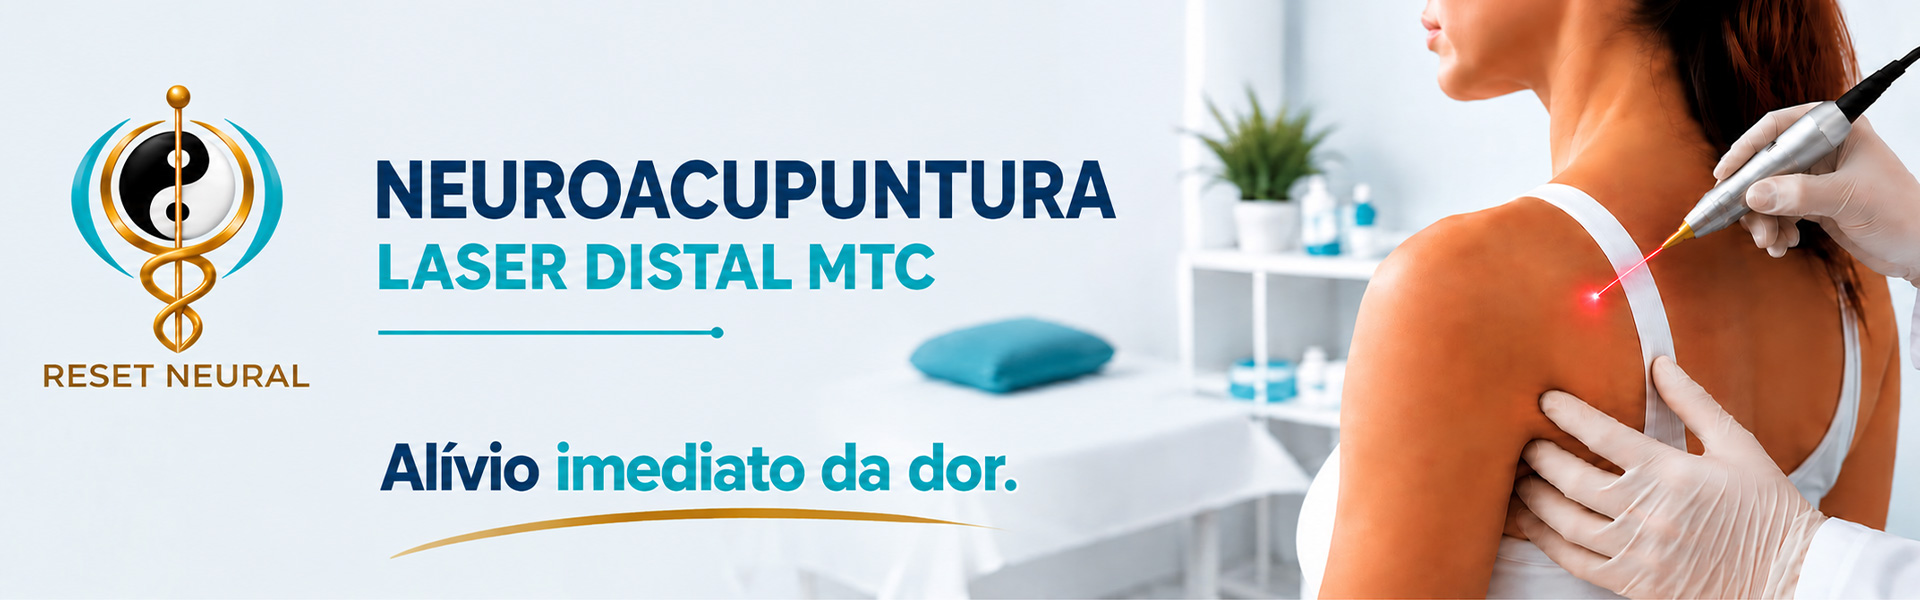
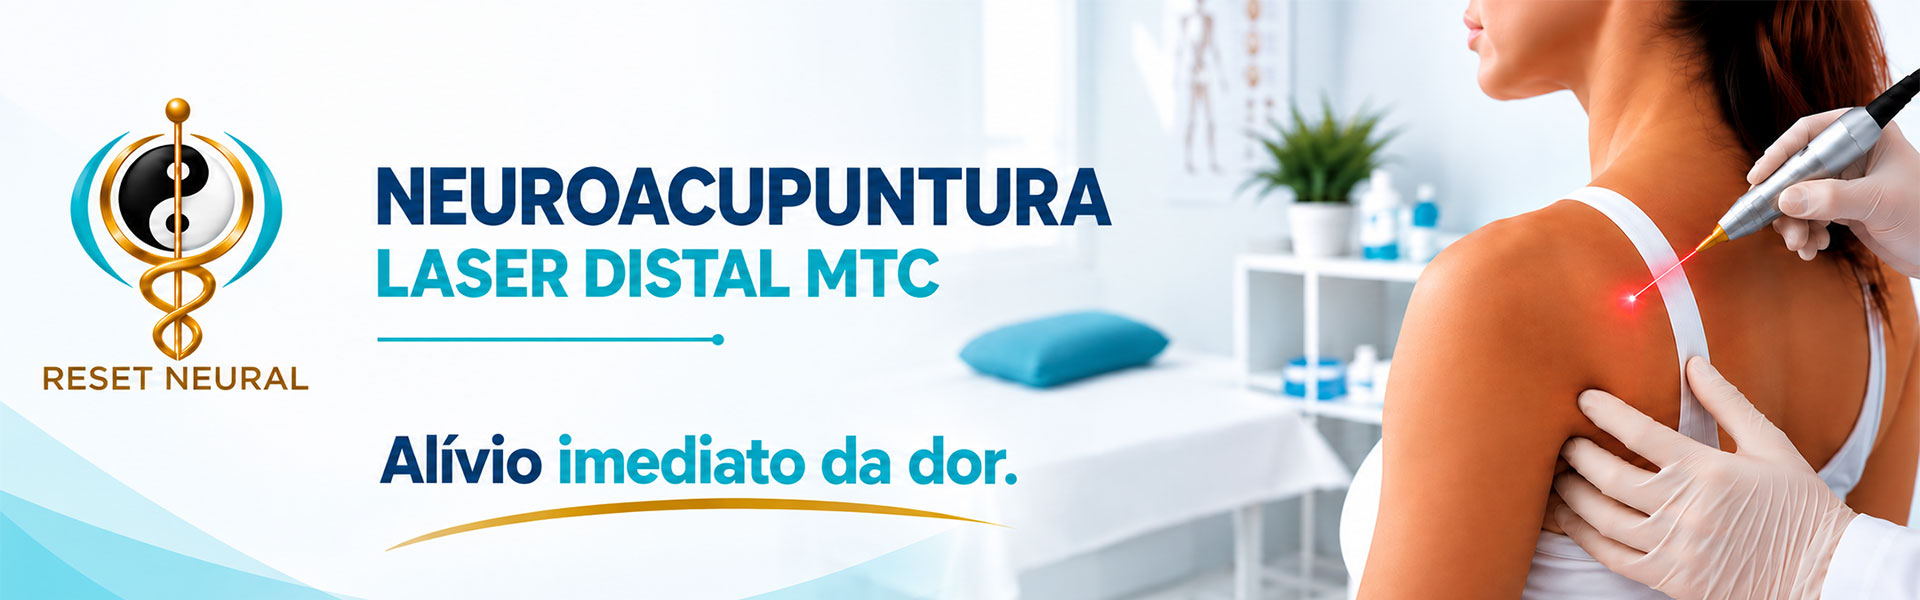
altera index

diff --git a/index.html b/index.html
@@ -3,11 +3,12 @@
 
 <head>
     <meta charset="UTF-8">
-    <meta name="description" content="Reset Neural | Neuroacupuntura Laser Distal MTC para cuidado da dor e bem-estar.">
-    <meta name="keywords" content="neuroacupuntura, laser distal, MTC, dor, bem-estar, home care, São Paulo, ABC Paulista, acupuntura, terapia, tratamento, saúde, recuperação, alívio da dor">
-    <meta name="viewport" content="width=device-width, initial-scale=1.0">
+    <meta name="description" content="Neuroacupuntura Laser Distal MTC para cuidado e alívio da dor, com atendimento Home Care em São Paulo e ABC Paulista.">
+<meta name="viewport" content="width=device-width, initial-scale=1.0">
     <meta http-equiv="X-UA-Compatible" content="ie=edge">
     <title>Reset Neural | Neuroacupuntura Laser Distal MTC</title>
+    <link rel="canonical" href="https://resetneural.com.br/">
+    <meta name="robots" content="index, follow, max-image-preview:large">
 
 
     <!-- Favicon -->
@@ -35,6 +36,9 @@
 <meta property="og:title" content="Reset Neural — Neuroacupuntura Laser Distal MTC">
 <meta property="og:description" content="Neuroacupuntura Laser Distal MTC para alívio da dor e recuperação do bem-estar.">
 <meta property="og:image" content="https://resetneural.com.br/img/og-image.jpg">
+<meta property="og:image:width" content="1200">
+<meta property="og:image:height" content="630">
+<meta property="og:image:alt" content="Reset Neural — Neuroacupuntura Laser Distal MTC">
 <meta property="og:url" content="https://resetneural.com.br/">
 <meta property="og:type" content="website">
 <meta property="og:site_name" content="Reset Neural">
@@ -44,6 +48,7 @@
 <meta name="twitter:title" content="Reset Neural — Neuroacupuntura Laser Distal MTC">
 <meta name="twitter:description" content="Neuroacupuntura Laser Distal MTC para alívio da dor e recuperação do bem-estar.">
 <meta name="twitter:image" content="https://resetneural.com.br/img/og-image.jpg">
+<meta name="twitter:image:alt" content="Reset Neural — Neuroacupuntura Laser Distal MTC">
 
 <style>
 /* Ícones Reset Neural — substituem os desenhos genéricos do template */
@@ -63,7 +68,86 @@
 .services__item__icon .fa {
     font-size: 28px;
 }
+
+/* SEO sem alteração visual: H1/H3 preservam a escala do template */
+.section-title h1 {
+    font-size: 30px !important;
+    line-height: 1.2 !important;
+    margin-top: 0 !important;
+    margin-bottom: 25px !important;
+    font-weight: 500 !important;
+}
+
+.chooseus__item h3,
+.services__item__text h3,
+.team__item h3,
+.latest__item h3 {
+    font-size: 18px !important;
+    line-height: 1.4 !important;
+    font-weight: 500 !important;
+}
+
+.chooseus__item h3 {
+    margin-top: 26px !important;
+    margin-bottom: 16px !important;
+}
+
+.services__item__text h3 {
+    margin-bottom: 14px !important;
+}
+
+.team__item h3 {
+    margin-bottom: 5px !important;
+}
+
+.latest__item h3 {
+    margin-bottom: 10px !important;
+}
+
+@media (max-width: 767px) {
+    .section-title h1 {
+        font-size: 28px !important;
+        line-height: 1.25 !important;
+        margin-bottom: 20px !important;
+    }
+
+    .chooseus__item h3,
+    .services__item__text h3,
+    .team__item h3,
+    .latest__item h3 {
+        font-size: 18px !important;
+        line-height: 1.35 !important;
+    }
+}
 </style>
+
+
+<!-- Dados estruturados -->
+<script type="application/ld+json">
+{
+  "@context": "https://schema.org",
+  "@type": "WebSite",
+  "name": "Reset Neural",
+  "url": "https://resetneural.com.br/",
+  "description": "Neuroacupuntura Laser Distal MTC para cuidado e alívio da dor, com atendimento Home Care em São Paulo e ABC Paulista.",
+  "inLanguage": "pt-BR"
+}
+</script>
+
+<script type="application/ld+json">
+{
+  "@context": "https://schema.org",
+  "@type": "Organization",
+  "name": "Reset Neural",
+  "url": "https://resetneural.com.br/",
+  "email": "contato@resetneural.com.br",
+  "telephone": "+55 11 94197-1140",
+  "areaServed": [
+    "São Paulo",
+    "ABC Paulista"
+  ]
+}
+</script>
 
 <!-- Google Tag Manager -->
 <script>(function(w,d,s,l,i){w[l]=w[l]||[];w[l].push({'gtm.start':
@@ -121,7 +205,7 @@ height="0" width="0" style="display:none;visibility:hidden"></iframe></noscript>
                             <ul>
                                 <li><a href="#tecnica">A técnica</a></li>
                                 <li><a href="#tratamentos">Tratamentos</a></li>
-                                <li><a href="#diferenciais">Diferenciais</a></li>
+                                <li><a href="#diferenciais">Benefícios</a></li>
                                 <li><a href="#como-funciona">Como funciona</a></li>
                                 <li><a href="#homecare">Home Care</a></li>
                                 <li><a href="#contato">Contato</a></li>
@@ -168,13 +252,13 @@ height="0" width="0" style="display:none;visibility:hidden"></iframe></noscript>
                                 <div class="consultation__text__item">
                                     <div class="section-title">
                                         <span>A TÉCNICA</span>
-                                        <h2>Tecnologia de ponta a favor da sua <b>recuperação.</b></h2>
+                                        <h1>Tecnologia de ponta a favor da sua <b>recuperação.</b></h1>
                                     </div>
                                     <p>A dor crônica não precisa fazer parte da sua rotina. Unimos o conhecimento milenar dos canais energéticos e neurais à precisão da fotobiomodulação a laser. O resultado é um estímulo profundo em pontos distais estratégicos, capaz de modular a resposta do sistema nervoso e proporcionar uma experiência confortável, indolor e livre de agulhas.</p>
                                 </div>
                             </div>
                             <div class="col-lg-6 col-md-6">
-                                <img src="img/acupuntura-laser-distal.jpg" alt="Acupuntura Laser Distal">
+                                <img src="img/acupuntura-laser-distal.jpg" alt="Aplicação de Neuroacupuntura Laser Distal" loading="lazy" decoding="async">
                                     <!--<a href="https://www.youtube.com/watch?v=PXsuI67s2AA" class="play-btn video-popup"><i class="fa fa-play"></i></a>-->
                                 </div>
                             </div>
@@ -201,28 +285,28 @@ height="0" width="0" style="display:none;visibility:hidden"></iframe></noscript>
                 <div class="col-lg-3 col-md-6 col-sm-6">
                     <div class="chooseus__item">
                         <span class="rn-acu-icon"><i class="fa fa-dot-circle-o"></i></span>
-                        <h5>Conforto absoluto</h5>
+                        <h3>Conforto absoluto</h3>
                         <p>Tratamento 100% não invasivo e indolor, ideal para quem busca eficácia sem o desconforto das agulhas.</p>
                     </div>
                 </div>
                 <div class="col-lg-3 col-md-6 col-sm-6">
                     <div class="chooseus__item">
                         <span class="rn-acu-icon"><i class="fa fa-crosshairs"></i></span>
-                        <h5>Ação distal e precisa</h5>
+                        <h3>Ação distal e precisa</h3>
                         <p>Atuamos em pontos estratégicos distais, estimulando as vias neurais sem tocar na região inflamada ou dolorida.</p>
                     </div>
                 </div>
                 <div class="col-lg-3 col-md-6 col-sm-6">
                     <div class="chooseus__item">
                         <span class="rn-acu-icon"><i class="fa fa-bullseye"></i></span>
-                        <h5>Sinergia tecnológica</h5>
+                        <h3>Sinergia tecnológica</h3>
                         <p>A energia da luz impulsiona a resposta terapêutica do corpo de forma acelerada e segura.</p>
                     </div>
                 </div>
                 <div class="col-lg-3 col-md-6 col-sm-6">
                     <div class="chooseus__item">
                         <span class="rn-acu-icon"><i class="fa fa-leaf"></i></span>
-                        <h5>Cuidado no seu espaço</h5>
+                        <h3>Cuidado no seu espaço</h3>
                         <p>Atendimento Home Care personalizado para São Paulo e ABC Paulista.</p>
                     </div>
                 </div>
@@ -251,7 +335,7 @@ height="0" width="0" style="display:none;visibility:hidden"></iframe></noscript>
                             <span class="fa fa-bullseye"></span>
                         </div>
                         <div class="services__item__text">
-                            <h5>Dor Cervical e Ombros</h5>
+                            <h3>Dor Cervical e Ombros</h3>
                             <p>Tensão acumulada, rigidez muscular e limitação de movimento.
                             </p>
                         </div>
@@ -263,7 +347,7 @@ height="0" width="0" style="display:none;visibility:hidden"></iframe></noscript>
                             <span class="fa fa-crosshairs"></span>
                         </div>
                         <div class="services__item__text">
-                            <h5>Lombalgia e Ciatalgia</h5>
+                            <h3>Lombalgia e Ciatalgia</h3>
                             <p>Dores persistentes na coluna, compressões e irradiações para as pernas.
                             </p>
                         </div>
@@ -275,7 +359,7 @@ height="0" width="0" style="display:none;visibility:hidden"></iframe></noscript>
                             <span class="fa fa-dot-circle-o"></span>
                         </div>
                         <div class="services__item__text">
-                            <h5>Joelho e Cotovelo</h5>
+                            <h3>Joelho e Cotovelo</h3>
                             <p>Desconfortos articulares, desgaste e perda de mobilidade.
                             </p>
                         </div>
@@ -287,7 +371,7 @@ height="0" width="0" style="display:none;visibility:hidden"></iframe></noscript>
                             <span class="fa fa-leaf"></span>
                         </div>
                         <div class="services__item__text">
-                        <h5>Processos Inflamatórios</h5>
+                        <h3>Processos Inflamatórios</h3>
                             <p>Suporte complementar direcionado para tendinites, bursites e dores crônicas.
                             </p>
                         </div>
@@ -321,7 +405,7 @@ height="0" width="0" style="display:none;visibility:hidden"></iframe></noscript>
                         <i class="fa fa-search"></i>
                     </span>
 
-                    <h5>01 • Avaliação detalhada</h5>
+                    <h3>01 • Avaliação detalhada</h3>
 
                     <p>
                         Mapeamos suas queixas, histórico e a origem do desconforto para estruturar um plano terapêutico exclusivo.
@@ -338,7 +422,7 @@ height="0" width="0" style="display:none;visibility:hidden"></iframe></noscript>
                         <i class="fa fa-bullseye"></i>
                     </span>
 
-                    <h5>02 • Estimulação laser precisa</h5>
+                    <h3>02 • Estimulação laser precisa</h3>
 
                     <p>
                         Aplicação indolor da luz laser em pontos distais estratégicos, estimulando a autorregulação do sistema nervoso.
@@ -355,7 +439,7 @@ height="0" width="0" style="display:none;visibility:hidden"></iframe></noscript>
                         <i class="fa fa-line-chart"></i>
                     </span>
 
-                    <h5>03 • Acompanhamento contínuo</h5>
+                    <h3>03 • Acompanhamento contínuo</h3>
 
                     <p>
                         Avaliamos a evolução da sua resposta terapêutica a cada sessão para orientar os próximos passos do cuidado.
@@ -387,7 +471,7 @@ height="0" width="0" style="display:none;visibility:hidden"></iframe></noscript>
             <!-- CARD 01 -->
             <div class="col-lg-4 col-md-6 col-sm-6">
                 <div class="latest__item">
-                    <h5>Atendimento personalizado em sua casa</h5>
+                    <h3>Atendimento personalizado em sua casa</h3>
 
                     <p>
                         Você não precisa enfrentar o trânsito ou o estresse do deslocamento para cuidar da sua saúde. Levamos a Neuroacupuntura Laser até você.
@@ -408,7 +492,7 @@ height="0" width="0" style="display:none;visibility:hidden"></iframe></noscript>
             <!-- CARD 02 -->
             <div class="col-lg-4 col-md-6 col-sm-6">
                 <div class="latest__item">
-                    <h5>Neuroacupuntura Laser Distal</h5>
+                    <h3>Neuroacupuntura Laser Distal</h3>
 
                     <p>
                         Uma abordagem que combina laser e princípios da
@@ -430,7 +514,7 @@ height="0" width="0" style="display:none;visibility:hidden"></iframe></noscript>
             <!-- CARD 03 -->
             <div class="col-lg-4 col-md-6 col-sm-6">
                 <div class="latest__item">
-                    <h5>Conforto no atendimento Home Care</h5>
+                    <h3>Conforto no atendimento Home Care</h3>
 
                     <p>
                         Receba seu atendimento com conforto e praticidade,
@@ -498,7 +582,7 @@ height="0" width="0" style="display:none;visibility:hidden"></iframe></noscript>
             <div class="reset-contato__image">
                 <img
                     src="img/banner_contato_reset_neural.jpg"
-                    alt="Atendimento de Neuroacupuntura Laser Distal"
+                    alt="Atendimento Home Care de Neuroacupuntura Laser Distal" loading="lazy" decoding="async"
                 >
             </div>
 
@@ -535,11 +619,11 @@ height="0" width="0" style="display:none;visibility:hidden"></iframe></noscript>
                 </a>
 
                 <a
-                    href="mailto:contato.resetneural@gmail.com"
+                    href="mailto:contato@resetneural.com.br"
                     class="reset-contato__email"
                 >
                     <i class="fa fa-envelope"></i>
-                    <span>contato.resetneural@gmail.com</span>
+                    <span>contato@resetneural.com.br</span>
                 </a>
 
             </div>
@@ -588,7 +672,7 @@ height="0" width="0" style="display:none;visibility:hidden"></iframe></noscript>
                 <ul>
                     <li><a href="#tecnica">A técnica</a></li>
                     <li><a href="#tratamentos">Tratamentos</a></li>
-                    <li><a href="#diferenciais">Diferenciais</a></li>
+                    <li><a href="#diferenciais">Benefícios</a></li>
                     <li><a href="#como-funciona">Como funciona</a></li>
                     <li><a href="#homecare">Home Care</a></li>
                     <li><a href="#contato">Contato</a></li>
@@ -613,8 +697,8 @@ height="0" width="0" style="display:none;visibility:hidden"></iframe></noscript>
 
                     <li>
                         <i class="fa fa-envelope"></i>
-                        <a href="mailto:contato.resetneural@gmail.com">
-                            contato.resetneural@gmail.com
+                        <a href="mailto:contato@resetneural.com.br">
+                            contato@resetneural.com.br
                         </a>
                     </li>
                 </ul>
